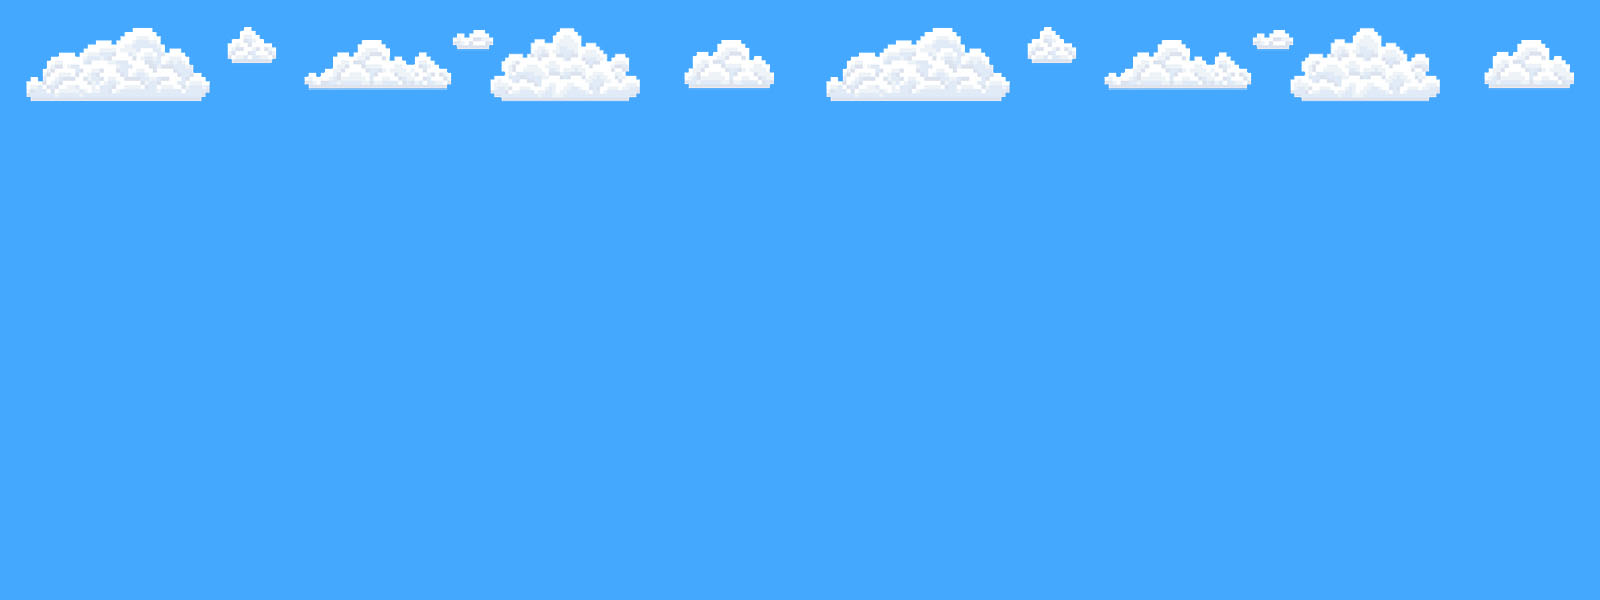
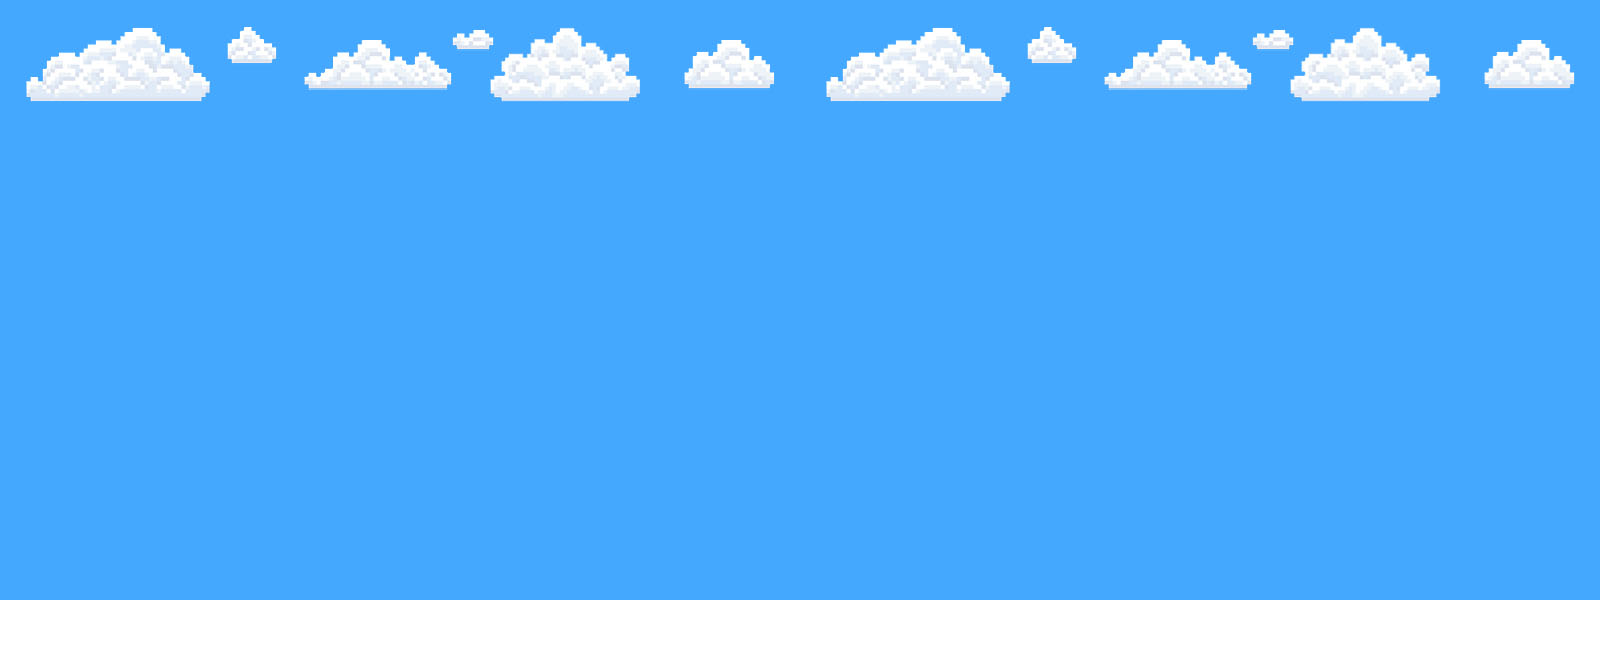
add new sky png

Changed region(s): [[0.0, 0.9, 1.0, 1.0], [0.0, 0.03, 1.0, 0.18]]

diff --git a/Group-3-Game/Sky.cs b/Group-3-Game/Sky.cs
@@ -21,14 +21,23 @@ public class Sky
     
     public void Setup()
     {
+        Console.WriteLine(System.IO.Directory.GetCurrentDirectory());
+
         //
-        Texture = Graphics.LoadTexture("../../../SkyBackground.png");
+        Texture = Graphics.LoadTexture("../../../Assets/SkyBackground.png");
     }
 
     public void Update()
     {
         //
         Graphics.Draw(Texture, 0, 0);
+        Position.X -= 10;
+       
+        //if (Position.X < -800)
+        {
+            Position.X = 0;
+        }
+;
     }
 
 }
